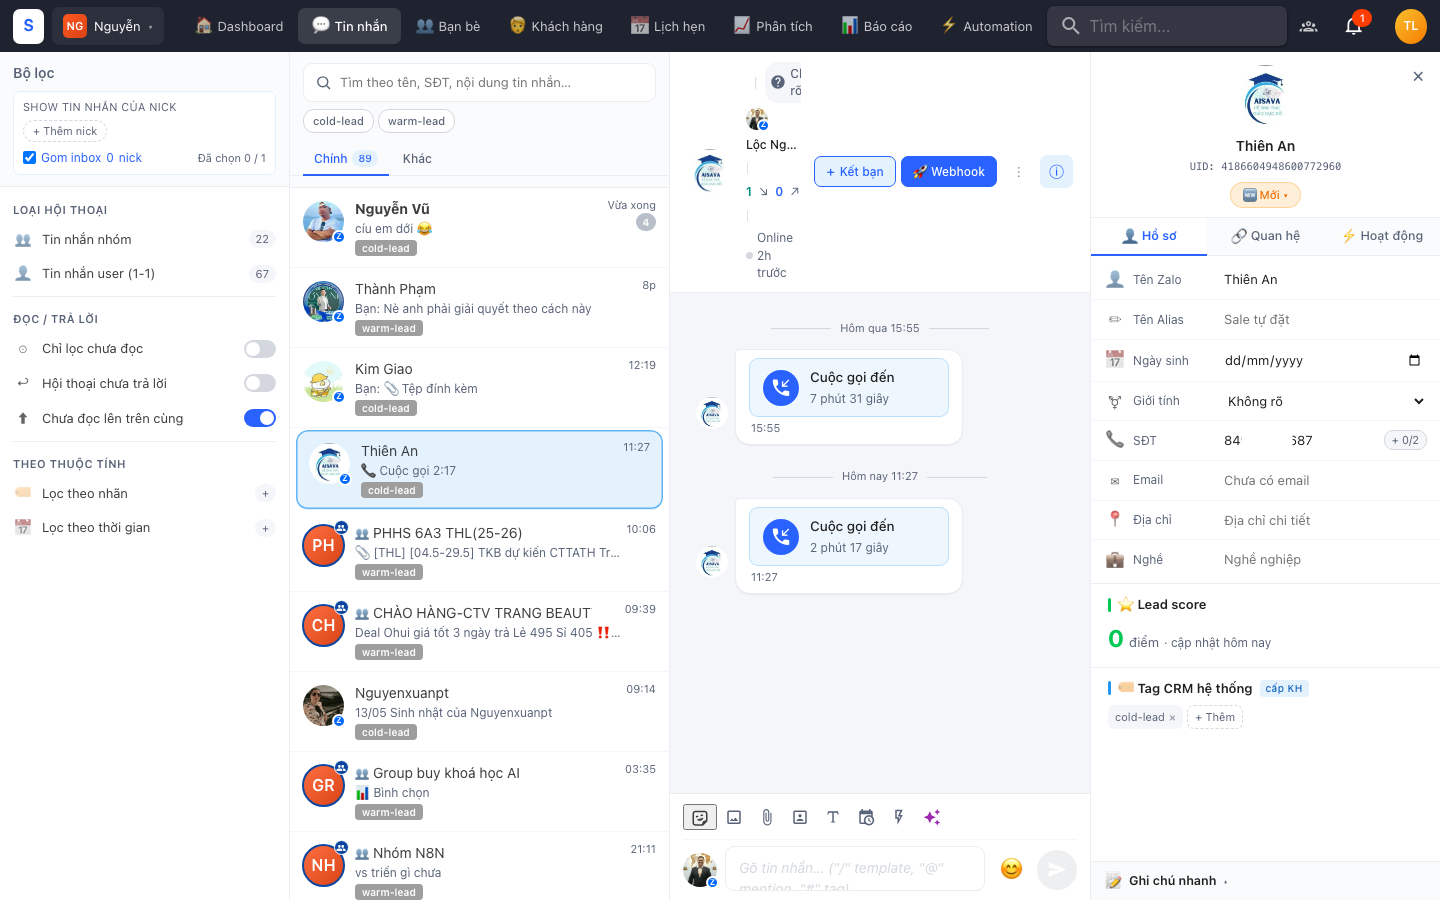
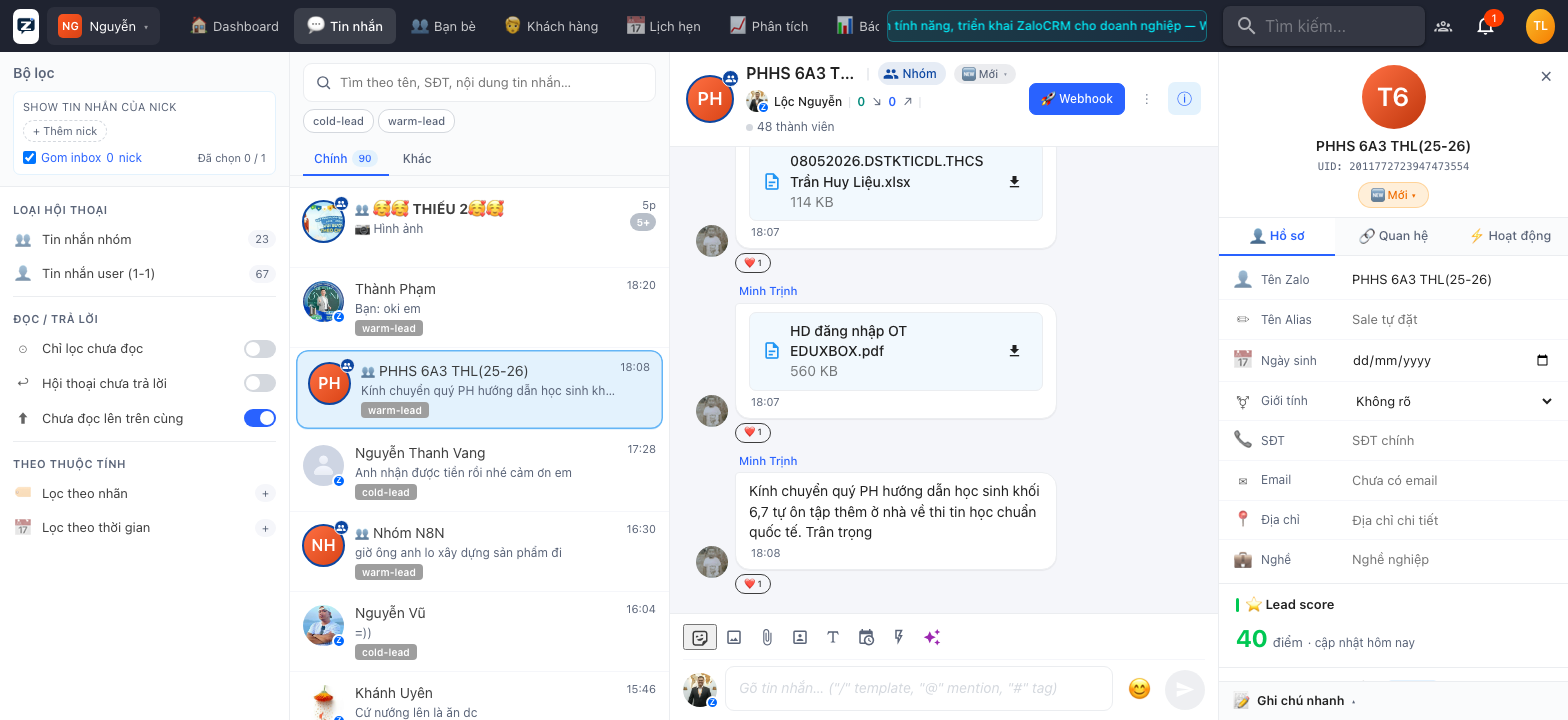
docs(readme): thêm 4 screenshots showcase + recapture 03-chat.png
- Block 'Ảnh chụp giao diện' đầu README: Dashboard, Tin nhắn, Bạn bè, Khách hàng (2x2 grid)
- Tham chiếu HUONG-DAN-NGUOI-DUNG.md để xem đầy đủ
- 03-chat.png chụp lại với conv đang mở (panel khách hàng hiển thị bên phải)

diff --git a/README.md b/README.md
@@ -4,6 +4,18 @@ Hệ thống quản lý tập trung nhiều tài khoản Zalo cá nhân trên 1 
 
 **GitHub:** [https://github.com/locphamnguyen/ZaloCRM](https://github.com/locphamnguyen/ZaloCRM)
 
+## Ảnh chụp giao diện
+
+| Dashboard | Tin nhắn |
+|---|---|
+| ![Dashboard](docs/user-guide-images/02-dashboard.png) | ![Tin nhắn](docs/user-guide-images/03-chat.png) |
+
+| Bạn bè | Khách hàng |
+|---|---|
+| ![Bạn bè](docs/user-guide-images/04-friends.png) | ![Khách hàng](docs/user-guide-images/05-contacts.png) |
+
+> 📖 Xem hướng dẫn sử dụng đầy đủ tại [docs/HUONG-DAN-NGUOI-DUNG.md](docs/HUONG-DAN-NGUOI-DUNG.md).
+
 ## Tính năng
 
 ### Mới trong v3.0
